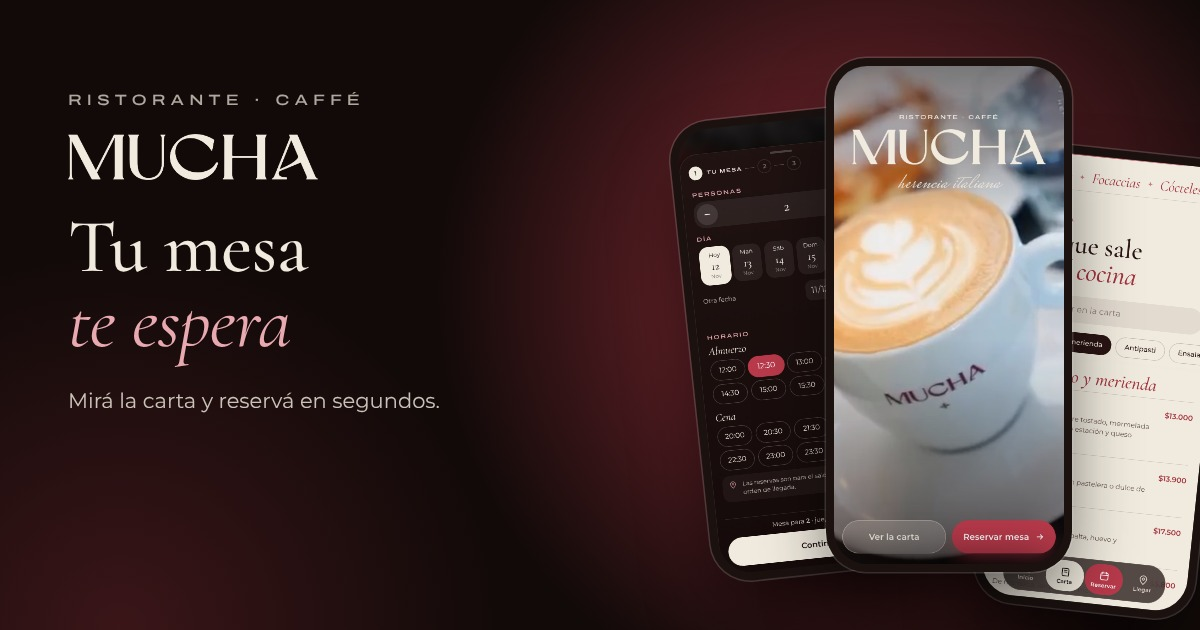
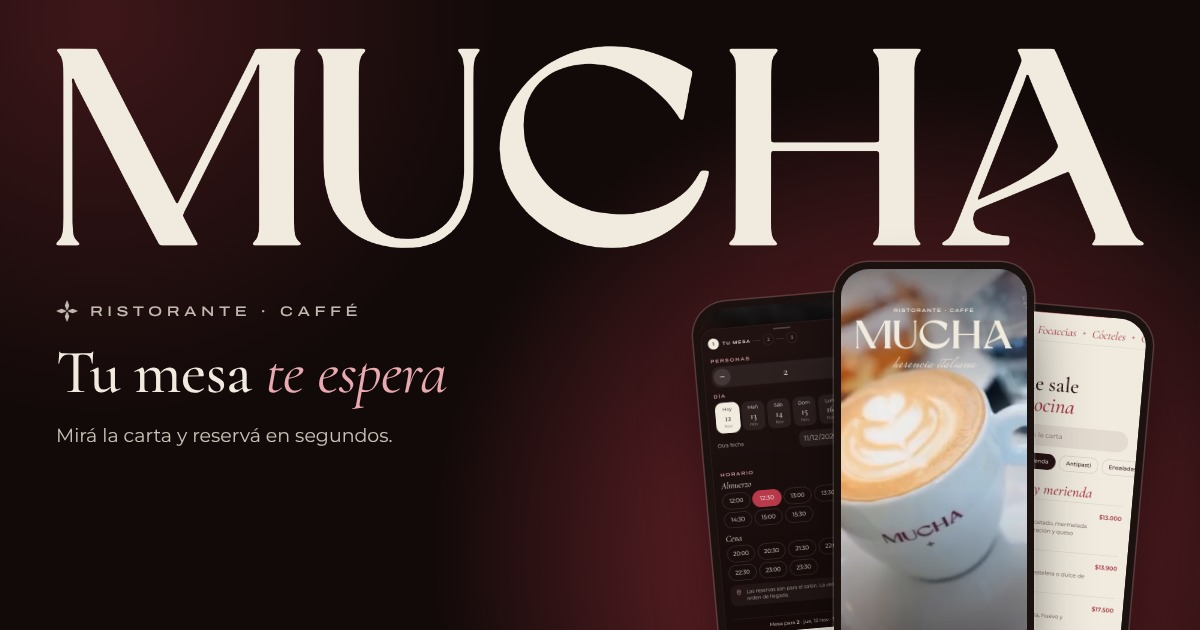
Estrella de la identidad en 4 colores, vista previa con MUCHA grande y estrella en el marquee
Claude-Session: https://claude.ai/code/session_01FKAksuEJr48oC6o9Gggqoz

diff --git a/propuestas/a/index.html b/propuestas/a/index.html
@@ -7,10 +7,10 @@
 <link rel="canonical" href="https://chatbot-lab-info.github.io/mucha-demo/">
 <meta property="og:type" content="website"><meta property="og:locale" content="es_AR"><meta property="og:site_name" content="Mucha">
 <meta property="og:title" content="Mucha · Herencia italiana"><meta property="og:description" content="Panadería, pastelería artesanal y cocina italiana en Santa Fe. Mirá la carta y reservá tu mesa.">
-<meta property="og:url" content="https://chatbot-lab-info.github.io/mucha-demo/"><meta property="og:image" content="https://chatbot-lab-info.github.io/mucha-demo/img/og-mucha.jpg"><meta name="twitter:card" content="summary_large_image"><meta name="twitter:image" content="https://chatbot-lab-info.github.io/mucha-demo/img/og-mucha.jpg">
+<meta property="og:url" content="https://chatbot-lab-info.github.io/mucha-demo/"><meta property="og:image" content="https://chatbot-lab-info.github.io/mucha-demo/img/og-mucha.jpg?v=2"><meta name="twitter:card" content="summary_large_image"><meta name="twitter:image" content="https://chatbot-lab-info.github.io/mucha-demo/img/og-mucha.jpg?v=2">
 <link rel="apple-touch-icon" href="../../img/m-boton-192.png">
 <link rel="icon" href="../../img/m-boton-192.png">
-<link rel="stylesheet" href="../shared/base.css"><link rel="stylesheet" href="a.css?v=16">
+<link rel="stylesheet" href="../shared/base.css"><link rel="stylesheet" href="a.css?v=17">
 <script>document.documentElement.classList.add('js');try{history.scrollRestoration='manual'}catch(e){}scrollTo(0,0);document.documentElement.dataset.res=(function(){var m=new URLSearchParams(location.search).get('res');return ['panel','libre','fijo','pausa'].indexOf(m)>=0?m:'panel'})()</script>
 </head><body>
 
@@ -105,5 +105,5 @@
 </footer>
 
 <script src="../../js/vendor/gsap.min.js"></script><script src="../../js/vendor/ScrollTrigger.min.js"></script><script src="../../js/vendor/lenis.min.js"></script>
-<script src="../../js/config.js?v=2"></script><script src="../../js/demo.js?v=2"></script><script src="../../js/panel.js?v=3"></script><script src="../shared/lib.js?v=3"></script><script src="reserva.js?v=14"></script><script src="a.js?v=9"></script>
+<script src="../../js/config.js?v=2"></script><script src="../../js/demo.js?v=2"></script><script src="../../js/panel.js?v=3"></script><script src="../shared/lib.js?v=3"></script><script src="reserva.js?v=15"></script><script src="a.js?v=9"></script>
 </body></html>

diff --git a/propuestas/a/a.js b/propuestas/a/a.js
@@ -204,7 +204,7 @@
 
   /* ── marquee ── */
   const MQ = ['Panadería', 'Pastelería artesanal', 'Pastas caseras', 'Focaccias', 'Cócteles', 'Cocina italiana'];
-  const mqH = MQ.map((m) => '<span>' + esc(m) + '<b>✦</b></span>').join('');
+  const mqH = MQ.map((m) => '<span>' + esc(m) + '<b></b></span>').join('');
   $('#mq').innerHTML = '<div style="display:inline-flex">' + mqH + '</div><div style="display:inline-flex">' + mqH + '</div>';
   if (!reduce) { const t = gsap.to('#mq', { xPercent: -50, repeat: -1, duration: 40, ease: 'none' }); ScrollTrigger.create({ trigger: '.mq', start: 'top bottom', end: 'bottom top', onUpdate: (s) => { gsap.to(t, { timeScale: 1 + Math.min(Math.abs(s.getVelocity()) / 240, 7) * s.direction, duration: .3, overwrite: true }); gsap.to(t, { timeScale: s.direction, duration: 1.4, delay: .3, overwrite: false }); } }); }
 

diff --git a/index.html b/index.html
@@ -13,7 +13,7 @@
 <meta property="og:title" content="Mucha · Reservá tu mesa">
 <meta property="og:description" content="Herencia italiana. Desde el desayuno hasta la 1:30: mirá la carta y reservá tu mesa en un minuto.">
 <meta property="og:url" content="https://chatbot-lab-info.github.io/mucha-demo/">
-<meta property="og:image" content="https://chatbot-lab-info.github.io/mucha-demo/img/og-mucha.jpg">
+<meta property="og:image" content="https://chatbot-lab-info.github.io/mucha-demo/img/og-mucha.jpg?v=2">
 <meta property="og:image:type" content="image/jpeg">
 <meta property="og:image:width" content="1200">
 <meta property="og:image:height" content="630">

diff --git a/propuestas/a/a.css b/propuestas/a/a.css
@@ -446,3 +446,5 @@ html[data-res=panel] .ra-dia{flex:1 0 54px;width:auto;min-width:54px}
 .load-f{position:absolute;left:50%;top:50%;width:40px;height:40px;margin:-20px 0 0 -20px;border-radius:50%;background:#A33340;transform:scale(0);will-change:transform}
 .load .load-w{position:absolute;left:50%;top:50%;width:min(62vw,320px);height:auto;transform:translate(-50%,-50%);opacity:0}
 .ra-aviso{color:#ff9aa4;margin-bottom:10px}
+
+.mq-t b{width:.42em;height:.42em;font-size:inherit;opacity:1;background:url(../../img/estrella-bordo-256.png) center/contain no-repeat;flex:none}
